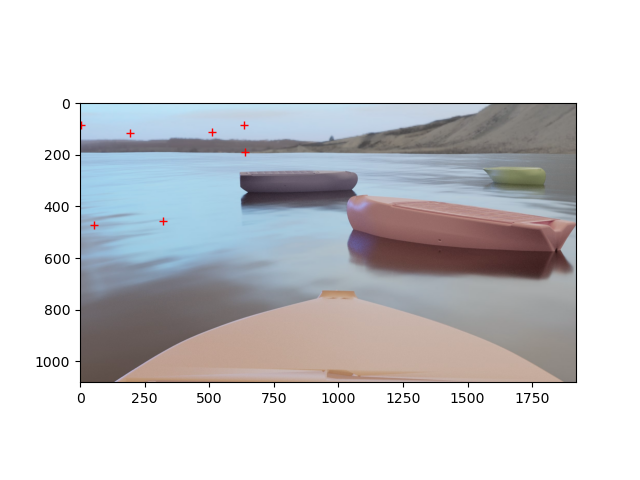
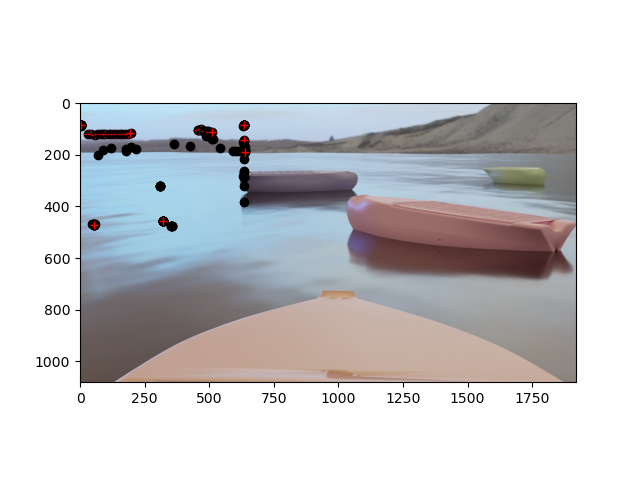
Plots echtzeit + Anfangskalierung

diff --git a/TestFile/Projekt/gnn_algorithmus.py b/TestFile/Projekt/gnn_algorithmus.py
@@ -24,6 +24,7 @@ def gnn(p_d,M,N,dimensions,T,ObjectHandler,Q,R,P_i_init,treshhold):
         ObjectHandler.setImageBaseName('')
         ObjectHandler.setImageFileType('.jpg')
         ObjectHandler.setDebugLevel(2)
+        safe_pic = True
 
         F = [[1,T,0,0],
              [0,1,0,0],
@@ -36,11 +37,12 @@ def gnn(p_d,M,N,dimensions,T,ObjectHandler,Q,R,P_i_init,treshhold):
         
         hungarian = Munkres() # Objekt, welches den Hungarian Algorithmus darstellt
         number_states = len(F) # Zuständezahl
-        n = -1 #Initialisierung von Anzahl der Objekten
+        n = -1 #Initialisierung der Anzahl der Objekten
         k = 0   #Zeitschritt
         estimate = np.zeros((4,1))
         pictures_availiable = True
         fig, axs = plt.subplots(3)
+        real_pic = plt.figure()
         
         measurements_all = [] #Liste mit den Messungen aller Zeitschriten
         estimate_all =[]
@@ -129,15 +131,12 @@ def gnn(p_d,M,N,dimensions,T,ObjectHandler,Q,R,P_i_init,treshhold):
                     P[0:number_states,i*number_states:number_states*(i+1)] = P_i #P_i in die gesamte P Matrix wieder einfügen
                     estimate[0:number_states,i] = estimate_i #estimates_i in die gesamte estimates Matrix wieder einfügen
                    
-                
-
-                    
-                
                 mn_data.pop(0) #Löschen ältestes Element
                 mn_data.append(measurement_k) #Aktuelle Messung einfügen
                 positionen_k = multi_dot([H,estimate])
                 plot_GNN(positionen_k,current_measurement_k,fig, axs,k,ObjectHandler)
-                plot_GNN_realpic(ObjectHandler,positionen_k,k)
+                if safe_pic == True:
+                    plot_GNN_realpic(ObjectHandler,positionen_k,k,N, real_pic,current_measurement_k)
                 estimate_all.append(estimate.tolist())
                 n, estimate = initMnLogic(M,N,mn_data,T, estimate,treshhold,n) #Anzahl Objekte
                 
@@ -295,9 +294,7 @@ def gnn_testdaten(p_d,M,N,dimensions,T):
                 
                 P[0:number_states,i*number_states:number_states*(i+1)] = P_i #P_i in die gesamte P Matrix wieder einfügen
                 estimate[0:number_states,i] = estimate_i #estimates_i in die gesamte estimates Matrix wieder einfügen
-                print('.......')
-                print(estimate)
-                print('......')
+                
                 
 
               

diff --git a/TestFile/Projekt/plot.py b/TestFile/Projekt/plot.py
@@ -17,20 +17,31 @@ def plot_GNN(pos_k,meas_k,fig, axs,k,ObjectHandler):
          axs[2].plot(absolute_value_gnn,k,'r+')
          
 
-def plot_GNN_realpic(ObjectHandler,pos_k,k):
+def plot_GNN_realpic(ObjectHandler,pos_k,k,N, real_pic,meas_k):
 
-    cwd = os.getcwd()
-    pfad = cwd +'\ObjektDetektion'
-   
+    cwd = os.getcwd() 
+    pfad = cwd +'\ObjektDetektion' #Aktueller pfad
+    if k == N: #Bei dem ersten Zeitscchritt indem neue Bilder gespeichert werden, alle Bilder im Ordner löschen
+        filelist = [ f for f in os.listdir(pfad) if f.endswith(".png") ]
+        for f in filelist:
+            os.remove(os.path.join(pfad, f))   
     name = '\Bild_'+ str(k)+'.png'
-    real_pic = plt.figure()
     img = ObjectHandler.getImg()
+    #img_height, img_width,_ = img.shape
+    #obj_h = ObjectHandler.getImgHeight()
+    #obj_w = ObjectHandler.getImgWidth()
+    #height,width = ObjectHandler.getHeight_Width()
     plt.imshow(img)
     n = len(pos_k[0])
+    #Plot aller Messungen
+    for m in range(len(meas_k)):
+        
+        plt.plot(meas_k[m][0],meas_k[m][1],'ro',color='black')
+    #Plot Objektdetektion
     for i in range(n):
         plt.plot(pos_k[0,i],pos_k[1,i],'r+')
     real_pic.savefig(pfad + name)
-    a = 1
+    
 
     
     

diff --git a/TestFile/Projekt/ObjectHandler.py b/TestFile/Projekt/ObjectHandler.py
@@ -24,6 +24,7 @@ class ObjectHandler:
         self.ImageBaseName: str = None
         self.ImageFileType: str = '.jpg'
         self.img: ndarray 
+        
 
     def setDebugLevel(self, debugLevel: int = 0) -> None:
         self.DebugLevel = debugLevel
@@ -70,7 +71,7 @@ class ObjectHandler:
             return self.ObjectStates[t-1]
     def getImg(self) :
        return self.img
-
+    
     # return last item in object states list
     def getLastObjectStates(self) -> List:
 

diff --git a/TestFile/Projekt/obstacle_detect.py b/TestFile/Projekt/obstacle_detect.py
@@ -47,6 +47,8 @@ class ImageObstacle(object):
         Returns:
             Tuple[int]: x, y of bottom center pixel
         """
+        
+        
         return self.x + self.width // 2, self.y + self.height
 
     
